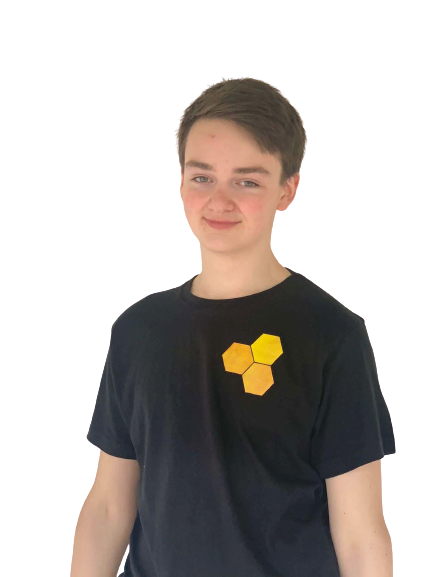
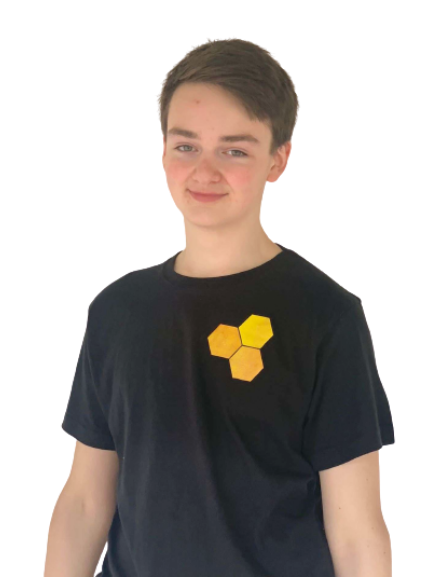
fixed image scaling

diff --git a/index.html b/index.html
@@ -296,7 +296,7 @@
 			<div class="row">
 				<div class="col-lg-12 text-center">
 					<div class="section-title">
-						<h2>2021 - Regionals</h2>
+						<h2>2022 - Regionals</h2>
 						<p>After a year of hard work, we competed in the 2022 Scottish Regional Finals, where we were crowned Regional Champions. We earned awards for Best Engineered Car and Fastest Car.</p>
 					</div>
 				</div>
@@ -392,7 +392,7 @@
 			<div class="row">
 				<div class="col-lg-12 text-center">
 					<div class="section-title">
-						<h2>The 2021 Car</h2>
+						<h2>Our Regionals Car</h2>
 						<p>Our regional’s car was a product of long hours spent designing, manufacturing, and testing. From the aerodynamic vortex generators to the hybrid bearings of our SLS printed wheels, this car brought to the table a plethora of innovations which won us the ‘Best Engineered Car’ and ‘Fastest Car’ awards.</p>
 					</div>
 				</div>
@@ -404,7 +404,7 @@
 			<div class="row">
 				<div class="col-lg-12 text-center">
 					<div class="section-title">
-						<h2>2023 - Nationals</h2>
+						<h2>Nationals</h2>
 						<p>As we approach the National Finals in January, we’ve been working tirelessly to raise the standard of our work to compete with the best teams from around the UK. Our engineers are hard at work developing our car designs, as they consider new approaches and methods to improve our car’s performance, while our enterprise team liaise with our sponsors and consolidate our brand presence. The team is dedicated to putting our best foot – or wheel – forward as we roll on towards victory.</p>
 					</div>
 				</div>
